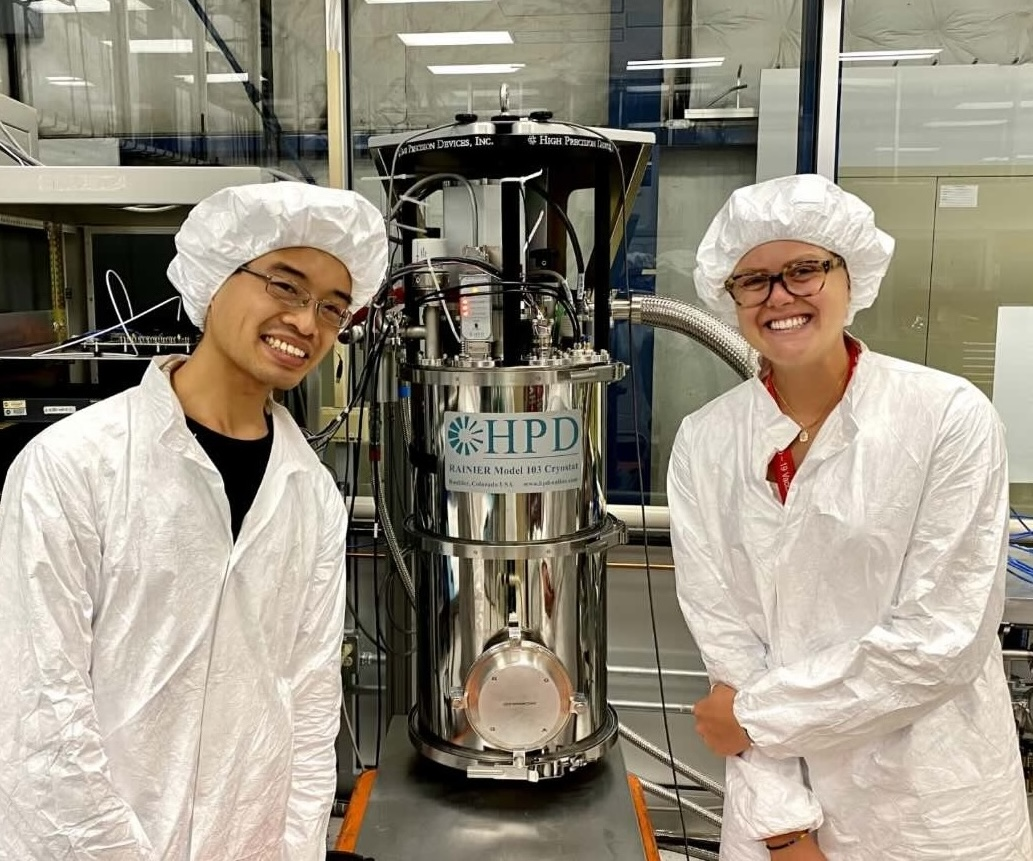
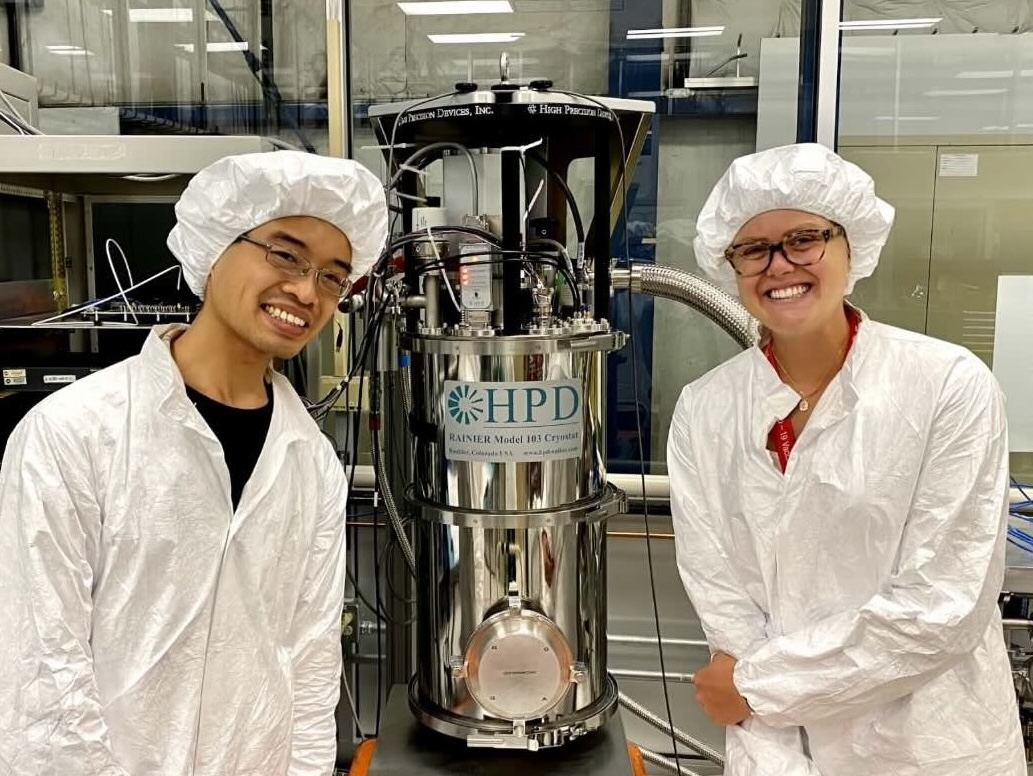
Add Cam-ITk image to join

diff --git a/join.html b/join.html
@@ -65,30 +65,40 @@
       <h2 class="section-title">Join us!</h2>
       <p class="lead">
         Join our welcoming and supportive <a href="https://physics.nyu.edu/experimentalparticle/" target="_blank">NYU Experimental Particle Physics</a> group. 
-        We seek creative and self-driven individuals from wide-ranging backgrounds to lead  <a href="research.html">exciting research</a> and advance your careers.
-        The group pursues friendly collaborations with the diverse international particle physics community. 
+        We seek creative and self-driven individuals from wide-ranging backgrounds to lead  <a href="research.html">exciting research</a> that advance your careers.
+        I am privileged to collaborate with the diverse global research community that my group members are welcomed into, 
+        most notably a long-standing physics collaboration with <a href="https://www.qu.uni-hamburg.de/cluster/team/beresford.html" target="_blank">Lydia Beresford's group</a> at DESY, Hamburg.
       </p>
     
     <div class="row">
-      <div class="col-md-4">         
+      <div class="col-md-1"> </div>
+      <div class="col-md-5">         
         <figure class="figure">
           <img src="img/tauteam.jpg" class="figure-img img-fluid" alt="Tau team">
-          <figcaption class="figure-caption">Celebrating <a href="https://arxiv.org/abs/2403.06336" target="_blank">2403.06336</a> with DESY collaborators</figcaption>
+          <figcaption class="figure-caption">Celebrating <a href="https://arxiv.org/abs/2403.06336" target="_blank">2403.06336</a> with L. Beresford and S. Clawson (DESY)</figcaption>
         </figure> 
       </div>  
-      <div class="col-md-4">
+      <div class="col-md-5">
         <figure class="figure">
           <img src="img/sm-ljubljana.jpg" class="figure-img img-fluid" alt="SM group">
-          <figcaption class="figure-caption">ATLAS <a href="https://twiki.cern.ch/twiki/bin/view/AtlasPublic/StandardModelPublicResults" target="_blank">Standard Model group</a> at Ljubljana</figcaption>
+          <figcaption class="figure-caption">ATLAS <a href="https://twiki.cern.ch/twiki/bin/view/AtlasPublic/StandardModelPublicResults" target="_blank">Standard Model group workshop</a> at Ljubljana</figcaption>
         </figure>          
-      </div>   
-      <div class="col-md-4">
+      </div>  
+    </div>
+    <div class="row">
+      <div class="col-md-1"> </div> 
+      <div class="col-md-5">
         <figure class="figure">
           <img src="img/fnal-adr.jpg" class="figure-img img-fluid" alt="FNAL ADR">
-          <figcaption class="figure-caption">With K. Dona at Fermilab cleanroom</figcaption>
+          <figcaption class="figure-caption">With K. Dona (Chicago) at Fermilab cleanroom for BREAD</figcaption>
         </figure>          
       </div> 
-      
+      <div class="col-md-5">
+        <figure class="figure">
+          <img src="img/cam-itk.jpg" class="figure-img img-fluid" alt="Cam ITk">
+          <figcaption class="figure-caption">Cambridge ITk cleanroom team lunch led by B. Hommels</figcaption>
+        </figure>          
+      </div> 
     </div>
   </div> 
   </section>
